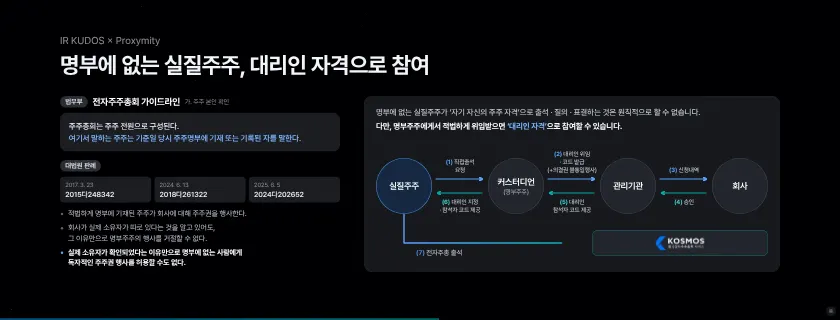
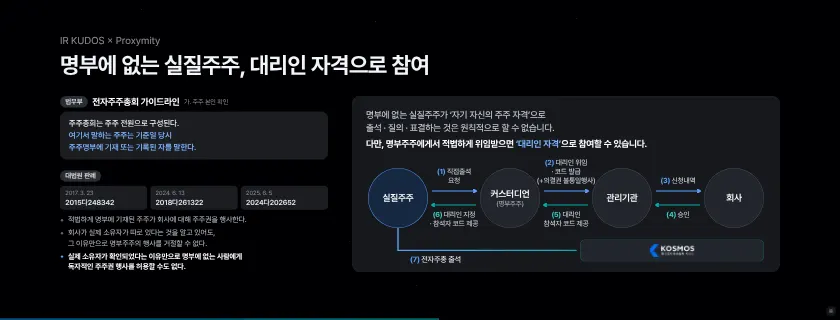
session4 K19c 레이아웃 재정리: 2단 그리드(왼쪽 근거 300~1640 · 오른쪽 판 1760~3900, 두 칸 위 480 · 아래 1360 같은 선), 왼쪽은 법무부 · 판례 두 묶음을 위아래 끝에 맞춤, 오른쪽 핵심 문장 40 → 46px(첫 문장 두 줄), 도식 원 280 → 300px · 라벨 30 → 36px(먼 거리 가독), KOSMOS 띠 오른쪽 끝을 판 안쪽 여백에 맞춤
Claude-Session: https://claude.ai/code/session_01Mn7NmyW5iujmmHnaRBFKBZ

diff --git a/sw.js b/sw.js
@@ -1,5 +1,5 @@
 /* 오프라인 캐시 — 온라인 주소(https)로 한 번 열면 모든 파일을 저장해 두고, 통신이 끊겨도 저장본으로 동작합니다. */
-const V='seminar-screen-11262134';
+const V='seminar-screen-11262136';
 const FILES=["./","assets/KakaoBigSans-Bold.woff2","assets/KakaoBigSans-Regular.woff2","assets/KakaoSmallSans-Bold.woff2","assets/KakaoSmallSans-Light.woff2","assets/KakaoSmallSans-Regular.woff2","assets/OrbitControls.js","assets/PretendardVariable.woff2","assets/attendees.js","assets/blue-bloom.html","assets/cong1.webp","assets/cong2.webp","assets/ds-bg.html","assets/four-states.html","assets/intro.mp4","assets/irk-white.svg","assets/irk-wordmark-white.svg","assets/kism-intro.mp4","assets/kism-white.svg","assets/ksmp-white.svg","assets/panel.js","assets/qa-online.js","assets/s2/img1.png","assets/s2/img2.png","assets/s2/img3.png","assets/s2/img4.png","assets/s4/aws.webp","assets/s4/callcenter.webp","assets/s4/chair-1.webp","assets/s4/chair-2.webp","assets/s4/chair-3.webp","assets/s4/conexus-word.webp","assets/s4/ctl-1.webp","assets/s4/cx-1.webp","assets/s4/cx-2.webp","assets/s4/cx-3.webp","assets/s4/cx-flow.mp4","assets/s4/cx-pop1.webp","assets/s4/cx-pop2.webp","assets/s4/cx-vote.mp4","assets/s4/cx-vote.webp","assets/s4/cxs-1.webp","assets/s4/insurance.webp","assets/s4/isms-t.webp","assets/s4/isms.webp","assets/s4/ismsp-t.webp","assets/s4/ismsp.webp","assets/s4/kosmos-white.png","assets/s4/ks-1.webp","assets/s4/ks-2.webp","assets/s4/ks-3.webp","assets/s4/ks-4.webp","assets/s4/ks-5.webp","assets/s4/ks-video.webp","assets/s4/live-1.webp","assets/s4/live-2.webp","assets/s4/live-3.webp","assets/s4/live-4.webp","assets/s4/live-5.webp","assets/s4/live-6.webp","assets/s4/live-7.webp","assets/s4/live-8.webp","assets/s4/logos.webp","assets/s4/ocr-1.webp","assets/s4/ocr-2.webp","assets/s4/ocr-3.webp","assets/s4/ocr-4.webp","assets/s4/ocr-5.webp","assets/s4/on-1.png","assets/s4/on-2.webp","assets/s4/on-3.webp","assets/s4/on-4.png","assets/s4/on-5.webp","assets/s4/onboard-1.webp","assets/s4/onboard-2.webp","assets/s4/privacy.webp","assets/s4/proxymity.svg","assets/s4/rehearsal.webp","assets/s4/streaming-korea.webp","assets/s4/tab-1.webp","assets/s4/tab-2.webp","assets/s4/team.webp","assets/sched.js","assets/screen-title-2.svg","assets/screen-title-b-text.svg","assets/screen-title-b.svg","assets/seat-banners.js","assets/seat-fascia.js","assets/seat-screen.js","assets/seatmap.js","assets/service-intro.mp4","assets/speaker-scott.webp","assets/speaker1-1.webp","assets/speaker2.webp","assets/speaker3-1.webp","assets/supabase.min.js","assets/three.min.js","assets/title-logos.svg","control.html","index-fs.html","index.html","kism.html","lobby/cuts.html","lobby/index.html","mc.html","session2.html","session4.html","sw.js","tools/s2_build.py","tools/s2_shell.html","assets/s3/p01.webp","assets/s3/p02.webp","assets/s3/p03.webp","assets/s3/p04.webp","assets/s3/p05.webp","assets/s3/p06.webp","assets/s3/p07.webp","assets/s3/p08.webp","assets/s3/p09.webp","assets/s3/p10.webp","assets/s3/p11.webp","assets/s3/p12.webp","assets/s3/p13.webp","assets/s3/p14.webp","assets/s3/p15.webp","assets/s3/p16.webp","assets/s3/p17.webp","assets/s3/p18.webp","assets/s3/p19.webp","assets/s3/p20.webp","assets/s3/p21.webp","assets/s3/p22.webp","assets/s3/p23.webp","assets/kism/photo-main.webp","assets/kism/photo-2.webp","assets/kism/photo-3.webp","assets/kism/photo-4.webp","assets/sound/countdown-tick.mp3","assets/sound/sfx-s3-part.mp3","assets/sound/sfx-s4-reveal.mp3","assets/sound/sfx-s5-proxymity.mp3","assets/sound/sfx-s6-chime.mp3","assets/sound/sfx-s7-close.mp3","assets/sound/opening-hit.mp3","assets/s4/kosmos-color.svg","assets/s4/ke-logo.png","assets/s4/ke-live.mp4","assets/kism/kwon-talk.mp4","assets/kism/manual-book.webp","kism-open.html","kism_16x9.html","led.html","assets/s4/cx-ops.mp4","assets/s4/cx-ops.webp","assets/s4/agent-app.mp4","assets/s4/pc-map.webp","assets/s4/pc-map.mp4","assets/s4/agent-app.webp","assets/s4/k24b-bg.webp","session0.html","face.html","assets/face-link.js","assets/kism/photo-main-cut.webp","assets/s4/cx-chair.mp4","assets/s4/cx-chair.webp","assets/s4/cx-test.mp4","assets/s4/cx-test.webp","assets/s4/onboard-mgr.webp","assets/s4/proxymity-logo.png","assets/s4/k21-bg.webp","assets/s4/kosmos-admin-white.svg","assets/kism-intro-16x9.mp4","assets/seat-guide.html","assets/s4/app-icon-agent.svg","assets/ds-main.mp4","assets/s4/k2-agency.webp","assets/s4/k2-support.webp","assets/s4/thumbs/K00.webp","assets/s4/thumbs/K01.webp","assets/s4/thumbs/K02.webp","assets/s4/thumbs/K03.webp","assets/s4/thumbs/K04.webp","assets/s4/thumbs/K05.webp","assets/s4/thumbs/K06.webp","assets/s4/thumbs/K07.webp","assets/s4/thumbs/K08.webp","assets/s4/thumbs/K09.webp","assets/s4/thumbs/K10.webp","assets/s4/thumbs/K11.webp","assets/s4/thumbs/K12.webp","assets/s4/thumbs/K13.webp","assets/s4/thumbs/K14.webp","assets/s4/thumbs/K15.webp","assets/s4/thumbs/K16.webp","assets/s4/thumbs/K17.webp","assets/s4/thumbs/K18a.webp","assets/s4/thumbs/K18b.webp","assets/s4/thumbs/K18c.webp","assets/s4/thumbs/K19.webp","assets/s4/thumbs/K19b.webp","assets/s4/thumbs/K19c.webp","assets/s4/thumbs/K20.webp","assets/s4/thumbs/K21.webp","assets/s4/thumbs/K21b.webp","assets/s4/thumbs/K22s.webp","assets/s4/thumbs/K23.webp","assets/s4/thumbs/K23b.webp","assets/s4/thumbs/K24a.webp","assets/s4/thumbs/K24b.webp","assets/s4/thumbs/K24c.webp","assets/s4/thumbs/K25.webp","assets/s4/thumbs/K25b.webp","assets/s4/thumbs/K26.webp","assets/s4/thumbs/K27.webp","assets/s4/thumbs/K28a.webp","assets/s4/thumbs/K28b.webp","assets/s4/thumbs/K28c.webp","assets/s4/thumbs/K28d.webp","assets/s4/thumbs/K29.webp","assets/s4/thumbs/K30.webp","assets/s4/thumbs/K09b.webp","assets/s4/thumbs/K28e.webp","assets/s4/onsite-vote.mp4","assets/s4/onsite-vote.webp"];
 self.addEventListener('install',e=>{e.waitUntil(caches.open(V).then(c=>c.addAll(FILES)).then(()=>self.skipWaiting()));});
 self.addEventListener('activate',e=>{e.waitUntil(caches.keys().then(ks=>Promise.all(ks.filter(k=>k!==V).map(k=>caches.delete(k)))).then(()=>self.clients.claim()));});
